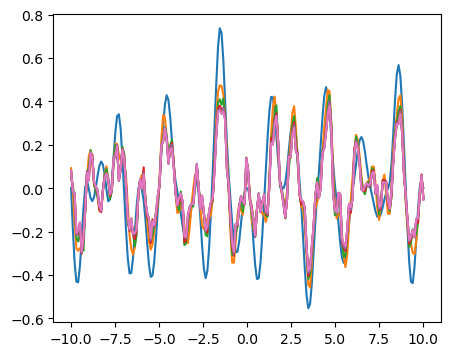
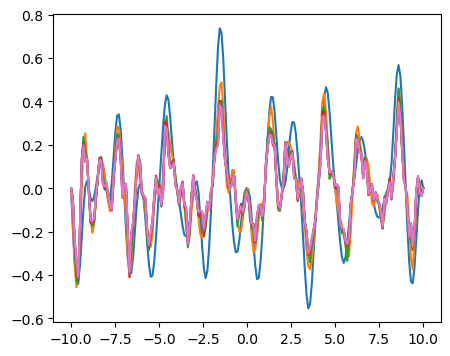
...

Changed region(s): [[0.1556, 0.2163, 0.9644, 0.8034]]

diff --git a/rumore/rumore.py b/rumore/rumore.py
@@ -21,10 +21,12 @@ class Config:
         Interpolation function (cubic or quintic), set by set_degree().
     degree : int
         Current interpolation degree (3 or 5).
+    octave_map : function of x
+        a function that is applied to the noise of each octave
     """
     def __init__(self):
         self.seed = 0xF00D
-        self.shift = 131.2322
+        self.shift = 0 #131.2322
         self.lacunarity = 2.0
         self.falloff = 0.5
         self.set_degree(5)  # default to quintic fade (Perlin-style, C² continuous)
